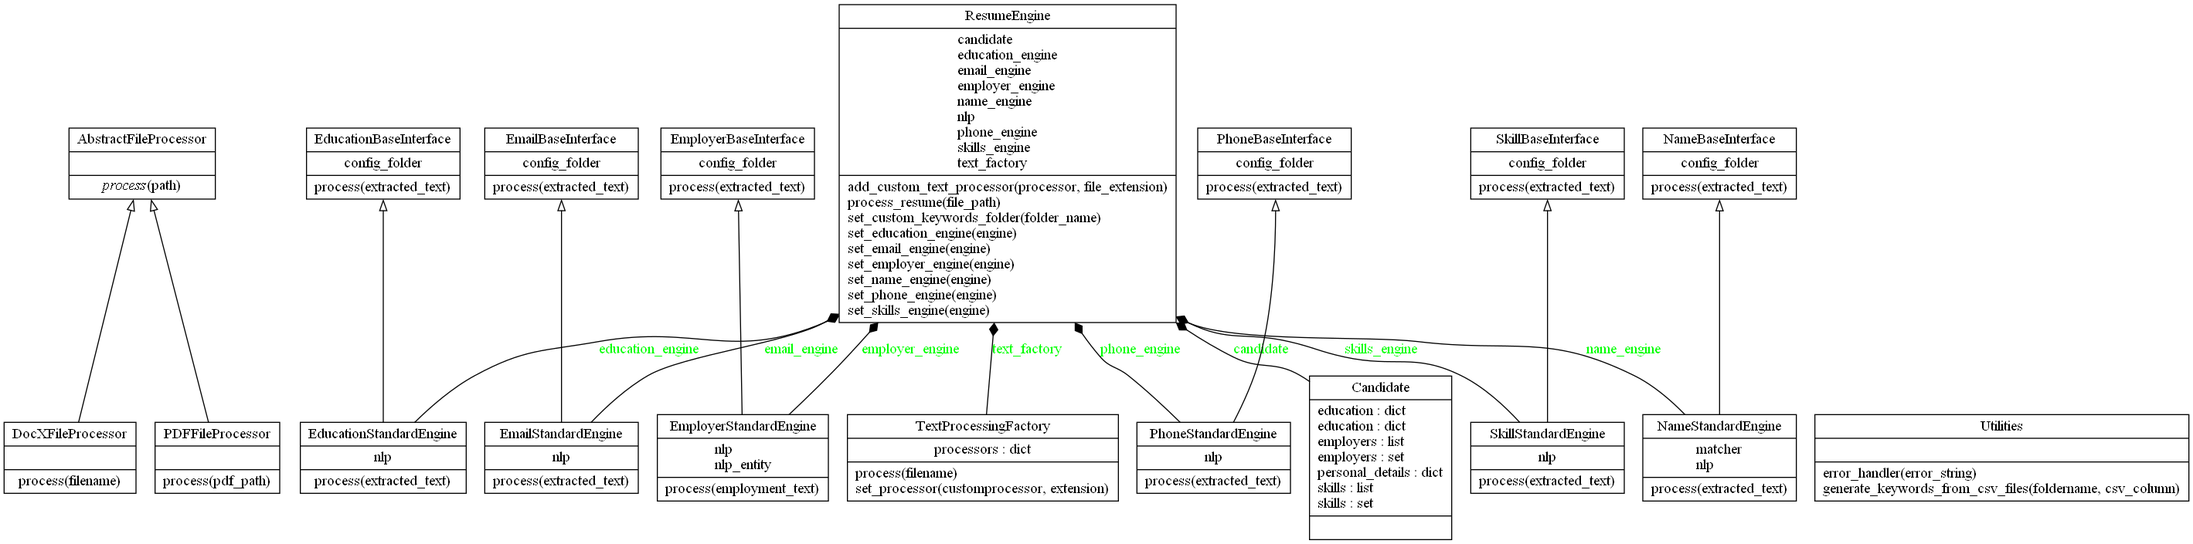
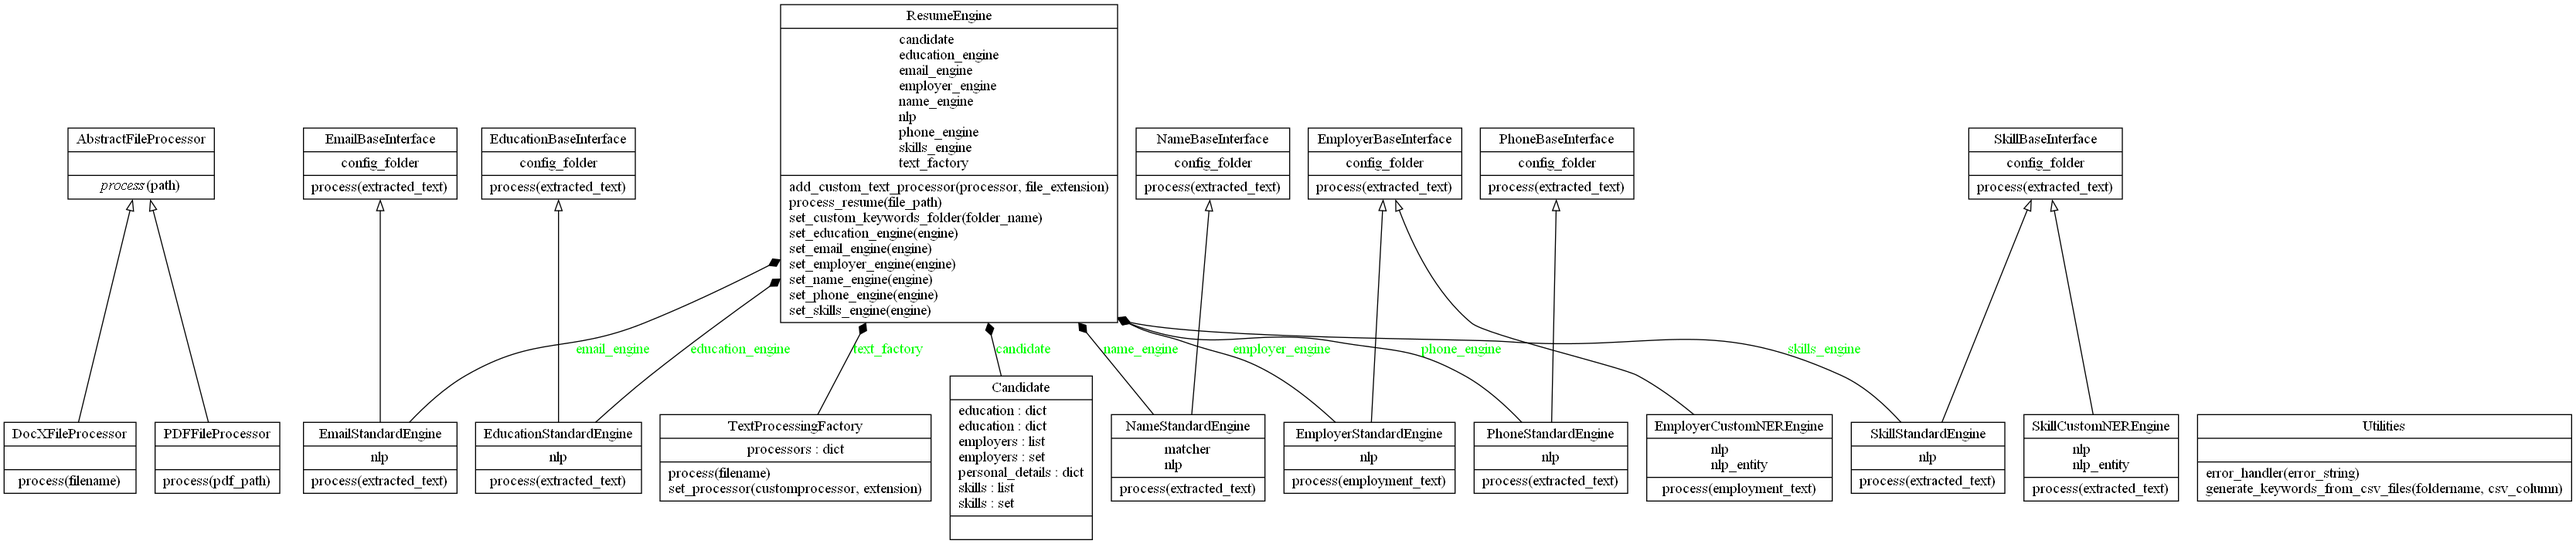
Static Code fixes, cleaning up

diff --git a/src/pyresumize/employment_module.py b/src/pyresumize/employment_module.py
@@ -2,12 +2,12 @@ import os
 import spacy
 from pyresumize.interfaces import EmployerBaseInterface
 from pyresumize.utilities import Utilities
+import logging
 
 
-class EmployerStandardEngine(EmployerBaseInterface):
-    def __init__(self, nlp, config_folder) -> None:
+class EmployerCustomNEREngine(EmployerBaseInterface):
+    def __init__(self, config_folder) -> None:
         super().__init__(config_folder)
-        # We overrides the default nlp given
         self.nlp = spacy.load("en_core_web_sm", exclude=["entity_ruler"])
         self.__generate_employers()
 
@@ -16,7 +16,7 @@ class EmployerStandardEngine(EmployerBaseInterface):
         utils = Utilities()
         employers = utils.generate_keywords_from_csv_files(employ_input_folder)
         employers = list(map(lambda x: str(x).lower(), employers))  # Normalising the Strings to Lower
-        print("found %d employers " % len(employers))
+        print("Generating Company Database: Found %d " % len(employers))
         patterns = []
         ruler = self.nlp.add_pipe("entity_ruler")
         for employer in employers:
@@ -41,5 +41,40 @@ class EmployerStandardEngine(EmployerBaseInterface):
                 # print(ent.text)
                 # print(ent.label_)
         # Removes Duplicate
+        candidate_employment = set(candidate_employment)
+        return candidate_employment
+
+
+class EmployerStandardEngine(EmployerBaseInterface):
+    def __init__(self, nlp, config_folder) -> None:
+        super().__init__(config_folder)
+        self.nlp = nlp
+
+    def process(self, employment_text):
+        """does nothing"""
+        candidate_employment = []
+        nlp_text = self.nlp(employment_text)
+        tokens = [token.text for token in nlp_text if not token.is_stop]
+        employ_input_folder = os.path.join(self.config_folder, "employers")
+        utils = Utilities()
+        employers = utils.generate_keywords_from_csv_files(employ_input_folder)
+        employers = list(map(lambda x: str(x).capitalize(), employers))  # Normalising the Strings to Lower
+        logging.info("found %d employers " % len(employers))
+
+        candidate_employment = []
+
+        # Lets look at the companies with single word
+        for token in tokens:
+            token = token.capitalize()
+            if token in employers:
+                # if token not in candidate_employment:
+                candidate_employment.append(token)
+
+        # for the Combined names  such as Operating Systems
+        for token in nlp_text.noun_chunks:
+            token = token.text.capitalize().strip()
+            if token in employers:
+                candidate_employment.append(token)
+
         candidate_employment = set(candidate_employment)
         return candidate_employment

diff --git a/src/pyresumize/skills_module.py b/src/pyresumize/skills_module.py
@@ -1,15 +1,21 @@
 import os
+import spacy
 from pyresumize.interfaces import SkillBaseInterface
 from pyresumize.utilities import Utilities
 
 
 class SkillStandardEngine(SkillBaseInterface):
+    """The Engine which uses Panda Dataframe to load the Data from CSV directly
+    Ideal for processing one or few resumes.
+    """
+
     def __init__(self, nlp, config_folder) -> None:
         super().__init__(config_folder)
         self.nlp = nlp
 
     def process(self, extracted_text):
         """ """
+
         nlp_text = self.nlp(extracted_text)
         skills = []
         tokens = [token.text for token in nlp_text if not token.is_stop]
@@ -38,3 +44,44 @@ class SkillStandardEngine(SkillBaseInterface):
         skillset = set(skillset)
 
         return skillset
+
+
+class SkillCustomNEREngine(SkillBaseInterface):
+    """This Engine Generates a CUSTM NER DB during startup .
+    If there are many resumes to be processed in queue . This Engine is much better
+    """
+
+    def __init__(self, config_folder) -> None:
+        super().__init__(config_folder)
+        self.nlp = spacy.load("en_core_web_sm", exclude=["entity_ruler"])
+        self.__generate_skills()
+
+    def __generate_skills(self):
+        skills_input_folder = os.path.join(self.config_folder, "skills")
+        utils = Utilities()
+        skills = utils.generate_keywords_from_csv_files(skills_input_folder)
+        skills = list(map(lambda x: str(x).lower(), skills))  # Normalising the Strings to Lower
+        print("Generating Skills Database: Found %d " % len(skills))
+        patterns = []
+        ruler = self.nlp.add_pipe("entity_ruler")
+        for skill in skills:
+            entry = {}
+            entry["label"] = "SKILL"
+            entry["pattern"] = str(skill)
+            patterns.append(entry)
+        ruler.add_patterns(patterns)
+        self.nlp.to_disk("skills")
+        self.nlp_entity = spacy.load("skills")
+        self.nlp.remove_pipe("entity_ruler")
+        self.nlp.add_pipe("entity_ruler", source=self.nlp_entity)
+
+    def process(self, extracted_text):
+        """ """
+        doc = self.nlp(extracted_text.lower())
+        skills = []
+        for ent in doc.ents:
+            if ent.label_ == "SKILL":
+                skills.append(ent.text.lower())
+        # Removes Duplicate
+        skills = set(skills)
+        return skills

diff --git a/resumizer_app.py b/resumizer_app.py
@@ -5,6 +5,8 @@ from glob import glob
 import json
 
 sys.path.append("src")
+from pyresumize.skills_module import SkillCustomNEREngine
+from pyresumize.employment_module import EmployerCustomNEREngine
 from pyresumize.resume_processor import ResumeEngine
 
 # global instance of parser, Since we use Spacy models , this helps to reduce load time
@@ -26,10 +28,18 @@ def find_ext(dr, ext):
 
 
 def main():
-    """find the files in a given folder with extension pdf and process those"""
     if len(sys.argv) < 2:
         print("Error : The resume folder to be specified as command line argument")
         sys.exit(-1)
+
+    global r_parer
+    print("Setting up the Environment , Please wait...")
+
+    skills_e = SkillCustomNEREngine("data")
+    employer_e = EmployerCustomNEREngine("data")
+    r_parser.set_skills_engine(skills_e)
+    r_parser.set_employer_engine(employer_e)
+
     foldername = str(sys.argv[1])
     pdf_files = find_ext(foldername, ".pdf")
     docx_files = find_ext(foldername, ".docx")

diff --git a/tests/test_details_phone.py b/tests/test_details_phone.py
@@ -27,7 +27,10 @@ class Phoneesting(TestCase):
         result = engine.process(
             "My Phone number is +919562099376 , can you give me a call? I have another number too +919562099377"
         )
-        self.assertEqual("+919562099377,+919562099376", result)
+        ans_1 = "+919562099376"
+        ans_2 = "+919562099377"
+        self.assertEqual(ans_1 in result, True)
+        self.assertEqual(ans_2 in result, True)
 
         # One number case
         result = engine.process("+919562099376")

diff --git a/src/pyresumize/resume_processor.py b/src/pyresumize/resume_processor.py
@@ -1,5 +1,4 @@
 import spacy
-import nltk
 import logging
 import json
 
@@ -19,10 +18,6 @@ config_folder = "data"
 logging.basicConfig(
     level=logging.WARNING, filename="pyresumize.log", filemode="w", format="%(name)s - %(levelname)s - %(message)s"
 )
-
-# TODO , See if this need to be done in another place, performance improvements.
-nltk.download("stopwords")
-# TODO End
 
 
 class Candidate:

diff --git a/src/pyresumize/__init__.py b/src/pyresumize/__init__.py
@@ -1,1 +1,1 @@
-__version__ = "0.2.0"
+__version__ = "0.2.1"

diff --git a/README.md b/README.md
@@ -3,7 +3,42 @@
 
   
 
-![](https://github.com/karthagokul/pyresumize/blob/main/logo.png?raw=true)
+![](https://github.com/karthagokul/pyresumize/blob/main/logo.png?raw=true | width=320)
+
+# Introduction
+  
+
+pyresumize is a python module to extract useful information from resume and generate a json string out of it. Currently it supports only pdf,docx files as input .
+
+
+### Todo
+
+* Proper Logging to be added
+* Support for other formats
+* Performance Improvements 
+* Bug Fixes
+* Custom configuration of input data
+
+### Note
+
+The Skills , Employers and Education is given as .csv inputs to the engine and you can see a reference implementation in the data folder.
+
+### Todo
+Log Integration
+custom model
+
+### Design
+
+## Class Diagram
+![Alt text](https://github.com/karthagokul/pyresumize/blob/main/classes_pyresumize.png?raw=true  "Class Diagram")
+
+## Package Diagram
+![Alt text](https://github.com/karthagokul/pyresumize/blob/main/package
+  
+
+  
+
+![](https://github.com/karthagokul/pyresumize/blob/main/logo.png?raw=true | width=320)
 
 # Introduction
   
@@ -80,6 +115,85 @@ The ResumeEngine class has below member functions and with one of these you can 
     set_email_engine(self, engine):    
     set_education_engine(self, engine):    
     set_employer_engine(self, engine):
+
+## Usage  
+
+https://pypi.org/project/pyresumize/ . The module can be installed using
+
+
+    pip install pyresumize
+
+ 
+Then do the below
+
+
+    python -m spacy download en_core_web_lg    
+    python -m nltk.downloader words    
+    python -m nltk.downloader stopwords    
+    from pyresumize import ResumeEngine    
+    r_parser=ResumeEngine()    
+    r_parser.set_custom_keywords_folder("data")    
+    json=r_parser.process_resume(file)    
+    print(json)
+s_pyresumize.png?raw=true  "Packages")
+
+I have changed the Design in such a way that the developers can create own parsing rules and set those to the Parser to bring in flexibility. 
+
+Currently we have the below interfaces exposed and the developers can override the process method to bring in custom processing rules.  
+
+- EmployerBaseInterface:
+
+Searches for company information in the resume and identifies the employers
+
+- EducationBaseInterface
+
+Process Education Details together with universities .The results are stored in a map
+
+- EmailBaseInterface
+
+Check for email addresses in the resume and returns if found one.
+
+- PhoneBaseInterface
+
+Process phone numbers in the resume text, if there are more than one phone number found , returns a concatenated string with commas.
+
+- NameBaseInterface
+
+Proces the Name of the candidate .
+
+- SkillBaseInterface:
+
+Process the skills section . returns a list of identified skills in a resume.
+
+One of these interfaces can be implemented like below . 
+
+    class RemoteCompaniesChecker (EmployerBaseInterface):
+        def process(self,resumetext):
+        #Call a remote API and pass the text info
+        return list[]
+
+The ResumeEngine class has below member functions and with one of these you can apply your custom engine
+
+    set_skills_engine(self, engine):    
+    set_name_engine(self, engine):    
+    set_name_engine(self, engine):    
+    set_email_engine(self, engine):    
+    set_education_engine(self, engine):    
+    set_employer_engine(self, engine):
+
+### Custom Text Processor
+Currently the Engine supports PDF and DOCX File extensions , By implementing AbstractFileProcessor you can create your own parser to insert it to the engine via the method add_custom_text_processor. Here is an example snippet
+
+    class MyfancyWordProcessor(AbstractFileProcessor):
+        def process(self,file_input):
+            # You can do all processing and return the text Data
+            # if there is an issue in processing return None.
+
+Now Let's connect the above processor to the Resume Parsing Engine like below to override the default DOCX Processor in the module
+
+    process_engine=MyfancyWordProcessor()
+    r_parser=ResumeEngine()
+    r_parser.add_custom_text_processor(process_engine,"docx")
 
 ## Usage  
 
